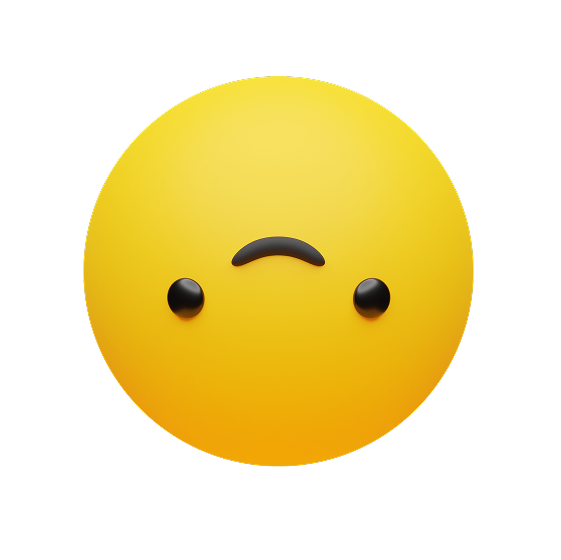
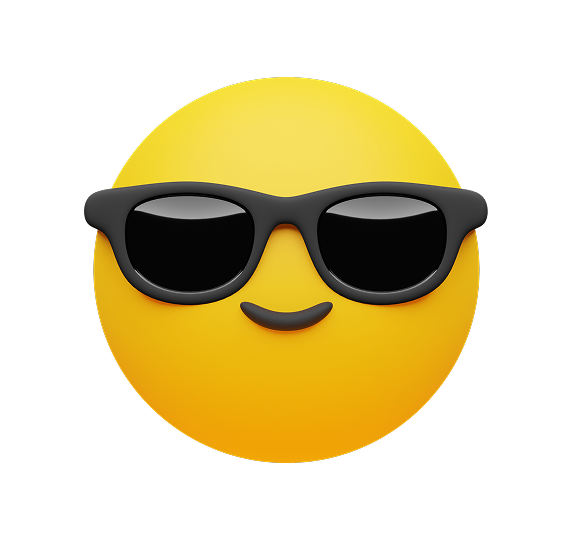
init

diff --git a/src/thx/ThxLayout.tsx b/src/thx/ThxLayout.tsx
@@ -28,11 +28,12 @@ export const ThxLayout = () => {
           defaultMargins={false}
           weight="bold"
         >
-          Сервис пока недоступен
+          Такого вы точно не ожидали
         </Typography.TitleResponsive>
         <Gap size={8} />
         <Typography.Text tag="p" view="primary-medium">
-          Вся команда очень старается, скоро всё заработает!
+          Вы только что поучаствовали в настоящем эксперименте! Сейчас мы
+          тестируем сервис, скоро предложим лучшие условия.
         </Typography.Text>
       </div>
 
